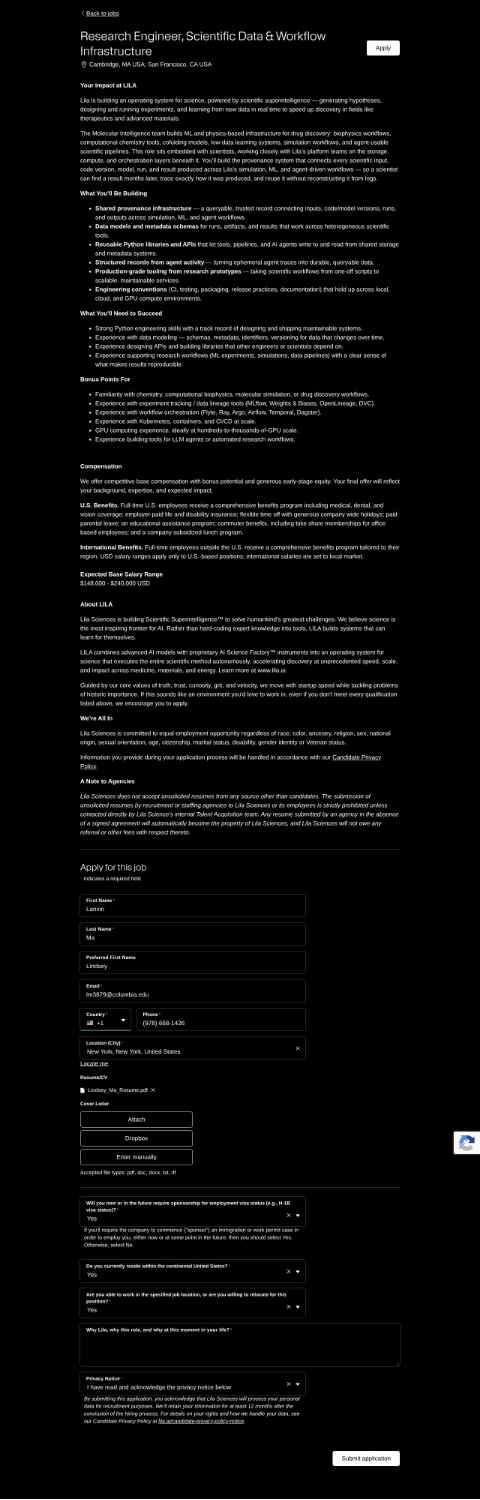
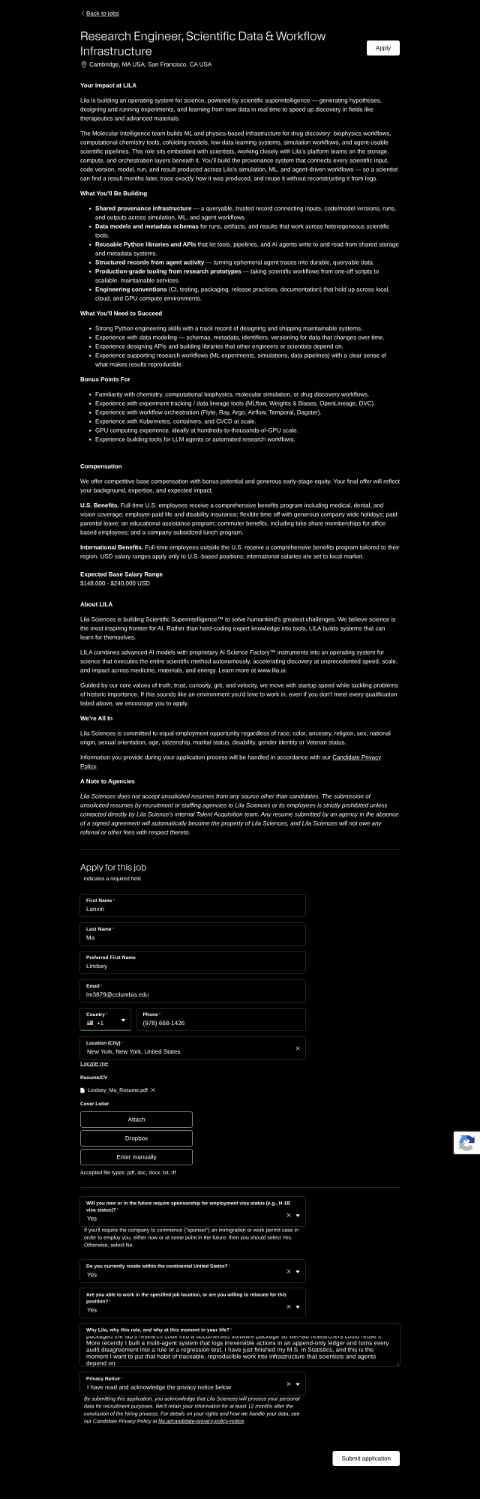
Relocation willingness despite a no-assistance note; 'preferred personal pronouns'
Claude-Session: https://claude.ai/code/session_01LthPYPCFWW6DXaP1StUSyu

Changed region(s): [[0.1562, 0.8893, 0.8125, 0.92]]

diff --git a/src/plan/rules.ts b/src/plan/rules.ts
@@ -376,7 +376,8 @@ export const PROFILE_RULES: ProfileRule[] = [
         const pick = near ? opts.filter((o) => /\balready (reside|live)\b/i.test(o)) : p.workArrangement?.relocate ? opts.filter((o) => /\bwilling to relocate\b/i.test(o) && !/\bnot willing\b/i.test(o)) : [];
         return pick.length === 1 ? pick[0] : undefined;
       }
-      if (/\b(support|assistance|package|stipend|reimburse)/.test(label)) return undefined;
+      // "Will you require relocation assistance?" is not a willingness question; a note that none is offered is.
+      if (/\b(require|need|requesting|request|want)\b.{0,30}\b(support|assistance|package|stipend|reimburse)/.test(label)) return undefined;
       const relocation = /\brelocat/.test(label);
       const ok = relocation ? p.workArrangement?.relocate : p.workArrangement?.onsite;
       if (ok === undefined) return undefined;
@@ -582,7 +583,7 @@ export const PROFILE_RULES: ProfileRule[] = [
   // DoorDash: "Do you identify as transgender?" follows the gender choice (decline).
   // DoorDash: "Do you identify as transgender?" The candidate gave no answer: decline.
   // Pronouns follow her gender choice: undisclosed where the list lets her decline.
-  { path: "eeo.gender", pattern: /\b(transgender|sexual orientation)\b|^(your )?pronouns?$/, kinds: ["select", "radio", "combobox"], resolve: () => "decline" },
+  { path: "eeo.gender", pattern: /\b(transgender|sexual orientation)\b|^(your )?pronouns?$|^what are your (preferred )?(personal )?pronouns$/, kinds: ["select", "radio", "combobox"], resolve: () => "decline" },
   // The candidate (2026-10-29): decline when the form lets her; when it requires a choice, her genderIfRequired.
   {
     path: "eeo.gender",
